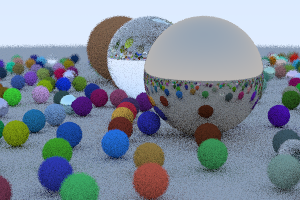
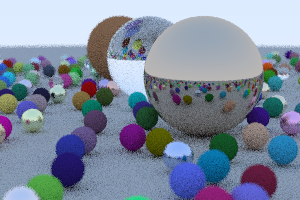
Fix seed

diff --git a/src/random.rs b/src/random.rs
@@ -2,13 +2,19 @@
 
 // TODO: seeding
 
-use rand;
+use std::sync::Mutex;
+
+use once_cell::sync::Lazy;
+use rand::{self, rngs::StdRng, Rng, SeedableRng};
 
 use crate::{Color, Vec3};
 
+// TODO: StdRng or SmallRng
+static SEED: Lazy<Mutex<StdRng>> = Lazy::new(|| Mutex::new(StdRng::seed_from_u64(42)));
+
 /// Returns a random float in [0, 1).
 pub fn float() -> f64 {
-    rand::random()
+    SEED.lock().unwrap().gen()
 }
 
 /// Returns a random float in [min, max).
